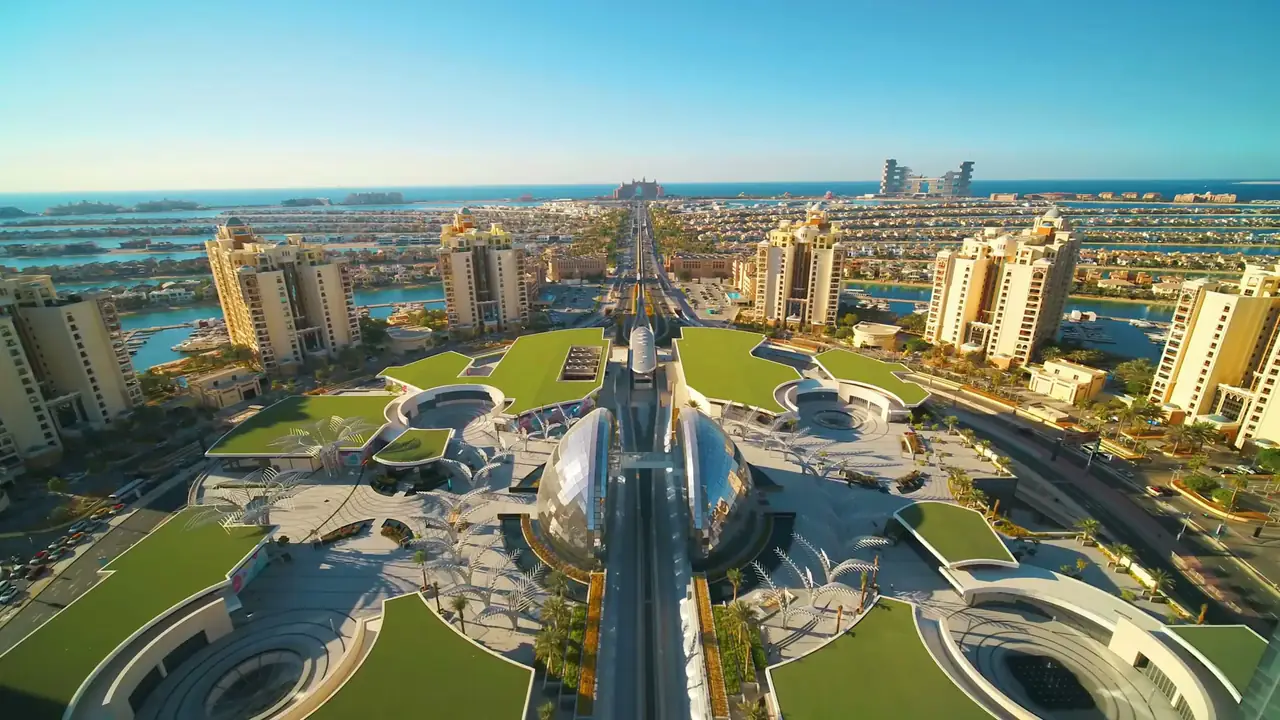
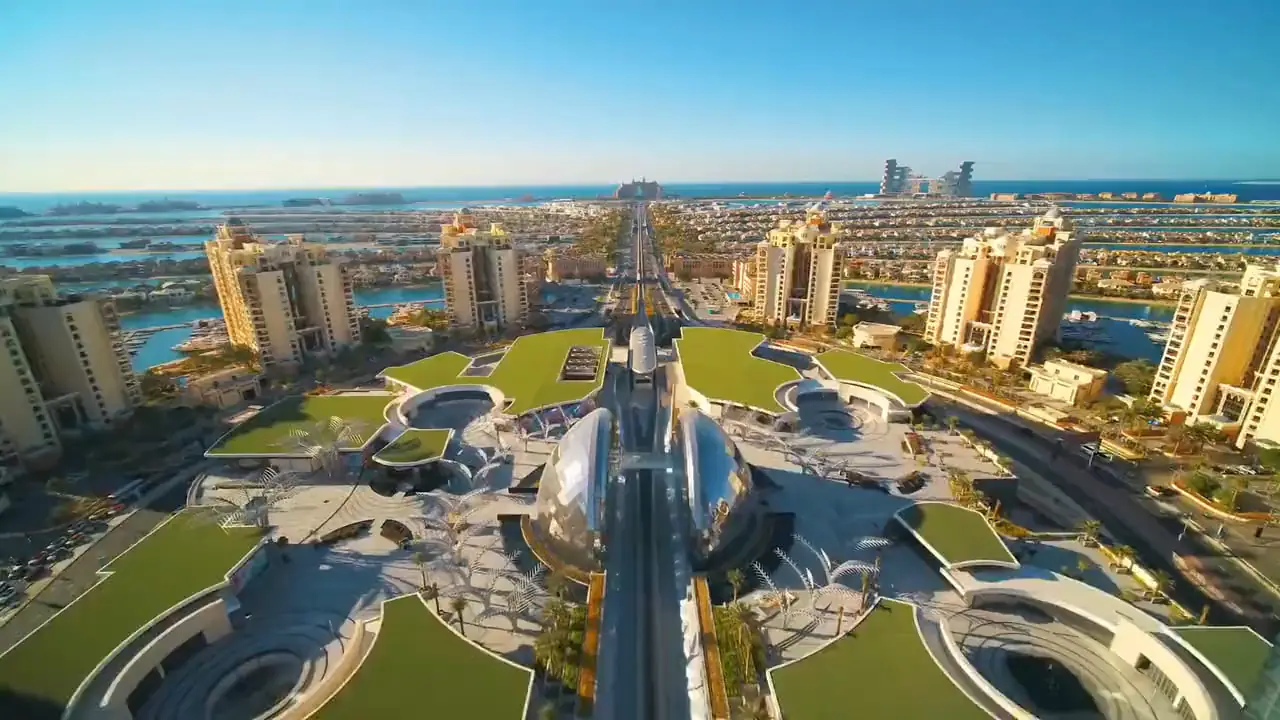
feat(hero): seamless poster-to-video start (poster is frame 0 of the rendition)
Owner request: frame 0 as the background until the video plays, with no
visible transition. The old start differed from the video's first frame by
19.6/255 on desktop (headless Chrome screenshots).

- Poster regenerated from frame 0 of each rendition: landscape from
  client-hero-1280.mp4, phone crop from client-hero-854.mp4 (enlarged to
  540 px so Chrome keeps the poster as the LCP).
- Poster and video share object-position (was center 35% vs center).
- No crossfade: the video is shown on its first painted frame
  (requestVideoFrameCallback), rewound to 0 while hidden if decoding
  started late, so the still simply starts moving.
- The video is requested only after the poster decodes (on slow links it
  was racing the poster, which left a bare teal hero).
- Renditions tagged BT.709 so browsers convert colours like the poster.
- encode-hero-videos.sh cuts both posters and runs images:optimize.

Poster vs frame 0: 1.4/255 desktop, 2.0 phone, 3.1 tablet; first visible
frame t=0.000 in 5/5 runs; phone 4G LCP 1.8-2.5 s (was 2.7 s).

diff --git a/web/src/components/home/hero-video-backdrop.tsx b/web/src/components/home/hero-video-backdrop.tsx
@@ -5,10 +5,15 @@ import { preload } from 'react-dom'
 import { ResponsiveImg, getPortraitImage, getResponsiveImage } from '@/components/ui/responsive-img'
 
 /**
- * Official client hero reel provided by the client (1080p aerial footage of Dubai & Palm Jumeirah).
- * Re-encoded into two lightweight web renditions (+faststart, silent ambient loop):
- *   /videos/hero/client-hero-1280.mp4 (desktop / large screens, ~19MB)
- *   /videos/hero/client-hero-854.mp4  (mobile / phones, ~7.2MB)
+ * Official client hero reel (Dubai & Palm Jumeirah aerials, 74 s loop), re-encoded by
+ * scripts/encode-hero-videos.sh into two silent, faststart, BT.709-tagged renditions:
+ *   /videos/hero/client-hero-1280.mp4 (desktop, ~9 MB)
+ *   /videos/hero/client-hero-854.mp4  (phones / 3G, ~4 MB)
+ *
+ * Seamless start: the poster IS frame 0 of the rendition the device plays (landscape from the
+ * 1280 file, phone crop from the 854 file), both layers share the same object-fit/position, and
+ * the video is switched on — with no fade — only once it has presented its first frame. So the
+ * still simply starts moving.
  */
 type Rendition = '1280' | '854'
 
@@ -47,13 +52,13 @@ const getReducedMotionOnServer = () => false
 export function HeroVideoBackdrop() {
   const [videoReady, setVideoReady] = useState(false)
   const videoRef = useRef<HTMLVideoElement | null>(null)
+  const backdropRef = useRef<HTMLDivElement | null>(null)
   const reducedMotion = useSyncExternalStore(
     subscribeToReducedMotion,
     getReducedMotion,
     getReducedMotionOnServer,
   )
-  // Video stays off until the page has fully loaded and the browser is idle,
-  // so the poster (the LCP element) never competes with video bandwidth.
+  // Chosen once the poster is painted (Save-Data / 2G → no video).
   const [rendition, setRendition] = useState<Rendition | null>(null)
 
   // Hoists high-priority <link rel="preload"> tags for the poster into <head>,
@@ -77,29 +82,86 @@ export function HeroVideoBackdrop() {
     })
   }
 
+  // The video starts only after the poster has loaded and decoded: otherwise, on slow links,
+  // the video download competes with the poster and the hero shows the bare teal background
+  // until the video pops in. Order is always: poster (frame 0) → video (frame 0 → motion).
   useEffect(() => {
     if (reducedMotion) return
-    const id = requestAnimationFrame(() => setRendition(pickRendition()))
-    return () => cancelAnimationFrame(id)
+    let cancelled = false
+    let rafId: number | undefined
+    const start = () => {
+      if (cancelled) return
+      rafId = requestAnimationFrame(() => setRendition(pickRendition()))
+    }
+    const img = backdropRef.current?.querySelector<HTMLImageElement>('img.ll-hero-poster')
+    if (img) img.decode().then(start, start)
+    else start()
+    return () => {
+      cancelled = true
+      if (rafId !== undefined) cancelAnimationFrame(rafId)
+    }
   }, [reducedMotion])
 
   useEffect(() => {
     if (reducedMotion || !rendition) return
     const v = videoRef.current
-    if (v) {
+    if (!v) return
+    let cancelled = false
+    let frameHandle: number | undefined
+    const play = () => {
       const p = v.play()
       if (p) {
         p.catch(() => {
-          // Poster fallback remains visible if autoplay is restricted
+          // Autoplay blocked: the paused frame 0 / poster (the same picture) simply stays.
         })
       }
+    }
+    const reveal = () => {
+      if (cancelled) return
+      // Straight on the element, in the same frame callback: waiting for a React render
+      // would let the video run a frame or two past the poster before it shows.
+      v.classList.add('is-visible')
+      setVideoReady(true)
+    }
+    // Shown only once the browser has painted a frame — never on `canplay`, which fires before
+    // anything is drawn. If decoding started late and the first painted frame is already past
+    // frame 0, rewind (still hidden) so the first visible frame is exactly the poster.
+    const onFirstFrame = (mediaTime: number) => {
+      if (cancelled) return
+      if (mediaTime < 0.05) return reveal()
+      v.pause()
+      v.addEventListener(
+        'seeked',
+        () => {
+          reveal()
+          requestAnimationFrame(() => {
+            if (!cancelled) play()
+          })
+        },
+        { once: true },
+      )
+      v.currentTime = 0
+    }
+
+    // requestVideoFrameCallback: Chrome/Edge, Safari 15.4+, Firefox 132+.
+    if (typeof v.requestVideoFrameCallback === 'function') {
+      frameHandle = v.requestVideoFrameCallback((_now, meta) => onFirstFrame(meta.mediaTime))
+    } else {
+      v.addEventListener('playing', () => onFirstFrame(v.currentTime), { once: true })
+    }
+
+    // play() (not only the autoPlay attribute) so iOS starts fetching data.
+    play()
+    return () => {
+      cancelled = true
+      if (frameHandle !== undefined) v.cancelVideoFrameCallback(frameHandle)
     }
   }, [reducedMotion, rendition])
 
   const videoSrc = rendition ? `/videos/hero/client-hero-${rendition}.mp4` : null
 
   return (
-    <div className="ll-hero-backdrop" aria-hidden="true">
+    <div ref={backdropRef} className="ll-hero-backdrop" aria-hidden="true">
       {/* Persistent poster: the LCP element. Responsive WebP, fetched first. */}
       <picture>
         {portrait && <source media={PORTRAIT_MEDIA} srcSet={portrait.src} />}
@@ -122,7 +184,6 @@ export function HeroVideoBackdrop() {
           loop
           playsInline
           preload="auto"
-          onCanPlay={() => setVideoReady(true)}
           className={`ll-hero-video ${videoReady ? 'is-visible' : ''}`}
         />
       )}

diff --git a/web/src/app/globals.css b/web/src/app/globals.css
@@ -562,7 +562,8 @@ button, input, select, textarea {
   width: 100%;
   height: 100%;
   object-fit: cover;
-  object-position: center 35%;
+  /* Must match .ll-hero-video: the poster is the video's first frame. */
+  object-position: center center;
   display: block;
 }
 
@@ -573,8 +574,9 @@ button, input, select, textarea {
   height: 100%;
   object-fit: cover;
   object-position: center center;
+  /* Hidden until its first frame is painted, then shown instantly: no crossfade, because a
+     fade over a moving shot reads as a transition. The poster underneath is the same frame. */
   opacity: 0;
-  transition: opacity 1.15s ease;
   pointer-events: none;
 }
 

diff --git a/STATUS.md b/STATUS.md
@@ -8,7 +8,7 @@
 
 ## Last updated
 
-2026-11-16 — by: Arena agent (review fixes on the client hero reel: `hero-dubai-skyline.jpg` restored after the poster had overwritten it, hero renditions re-encoded ~50% lighter, homepage DB debug line removed so `/` is static, media test added)
+2026-11-16 — by: Arena agent (review fixes on the client hero reel: skyline photo restored, renditions ~50% lighter, homepage static; then a seamless poster → video start, with the poster cut from frame 0 of each rendition)
 
 ### Previous update
 
@@ -109,3 +109,4 @@
 | 2026-11-16 | Arena agent | Client feedback (D-23): property card CTA `View Property Brief` → `Know More` (+ sr-only property name); hero search reduced to `Buy` / `Rent` (Commercial tab removed, commercial listings included in Buy/Rent communities); Executive Leadership removal already done (D-22); verify.sh +3 checks | `tsc` PASS, lint 0 errors (3 warnings), tests 5/5, `next build` PASS, `verify.sh` 51/52 (only the known `file` utility check fails); checked at 1440 and 390 |
 | 2026-11-16 | Arena agent | cPanel staging prep: host offers Node 22.23.5 (compat item 1 PASS). Added `web/scripts/deployment/package-cpanel.sh`, which builds the standalone bundle in a CloudLinux-safe layout (`leapliving-app/app/server.js`), rebuilds better-sqlite3 for glibc 2.28, creates the initial DB, smoke-tests and zips. Added `STORAGE_DIR` so uploads live outside the release. verify.sh now checks the hero renditions actually served (not the unused masters). Guide: `docs/deployment/cpanel-staging.md` | `tsc` PASS, lint 0 errors (3 warnings), tests 5/5, package script run twice PASS, extracted bundle `verify.sh` 57/58 (only the known `file` utility check fails) |
 | 2026-11-16 | Arena agent | Review fixes on the client hero reel. (1) The poster commit had overwritten `hero-dubai-skyline.jpg` (and the unused duplicate `hero-dubai-beach-daylight.jpg`) with the reel's first frame, so the *Burj District Private Collection* project and four property galleries showed Palm Jumeirah; the original skyline photo and its WebP variants are restored, the orphan duplicate and the skyline portrait crop removed. (2) `client-hero-1280/854.mp4` re-encoded from the 1080p master at 24 fps, CRF 31/33, preset slow: 19.3 → 9.1 MB and 7.5 → 3.8 MB, same 74 s, first frame still matches the poster. `encode-hero-videos.sh` no longer hard-codes a local ffmpeg path. (3) Homepage hidden `Platform Ready (DB assets)` line and `force-dynamic` removed: `/` is prerendered and no longer returns 500 when the database is unavailable; verify.sh checks the marker is gone. (4) `src/data/media-assets.test.ts`: fails on byte-identical photos, missing manifest variants, or missing catalogue images. DESIGN_SYSTEM hero-video note rewritten | `tsc` PASS, lint 0 errors (3 warnings), tests 8/8, `next build` PASS (`/` static), verify.sh 50/51 (only the known `file` utility check fails), `/` returns 200 with the database directory removed; mobile 4G LCP 2.7 s (unchanged); project page and hero checked in headless Chrome |
+| 2026-11-16 | Arena agent | Hero: seamless poster → video (owner request: "first frame as the background until the video plays, with no feeling of a transition"). Measured in headless Chrome, the old start differed from the video's first frame by 19.6/255 on desktop. Causes: the poster sat at `object-position: center 35%` against the video's `center`, a 1.15 s crossfade ran over a moving shot, the video was revealed on `canplay` and so showed already advanced (t≈0.1–0.4 s), and the renditions carried no colour tags. Changes: (1) poster regenerated from frame 0 of each rendition (1280 landscape, phone crop from the 854 file, enlarged to 540 so it stays the LCP); (2) same object-position on both layers; (3) video revealed with no fade on its first painted frame, rewound to 0 while hidden if needed; (4) video requested only after the poster decodes, because on slow links it had been racing the poster; (5) renditions tagged BT.709; (6) `encode-hero-videos.sh` now cuts the posters and runs `images:optimize` | Poster vs video frame 0: 1.4/255 desktop (1366/1440/1920), 2.0 phone, 3.1 tablet. First visible video frame t=0.000 s in 5 of 5 runs (desktop and phone, throttled and not). Phone 4G LCP stays the poster, 1.8–2.5 s (was 2.7 s). `tsc` PASS, lint 0 errors (3 warnings), tests 8/8, `next build` PASS, verify.sh 50/51 (only the known `file` utility check fails) |

diff --git a/DESIGN_SYSTEM.md b/DESIGN_SYSTEM.md
@@ -195,8 +195,8 @@ Measured with Lighthouse 12 on `/` (`next start`). Mobile uses default throttlin
 ¹ Speed Index errored in that run. ² Includes the hero video, which now loads only after the page has finished loading.
 
 - **Photos:** never reference `/images/*.jpg|png` from a raw `<img>`. Use `<ResponsiveImg src sizes>` (`web/src/components/ui/responsive-img.tsx`). It serves pre-generated WebP variants (640/768/960/1280/1920) from `public/images/opt/` via `srcSet`, and is lazy by default (`priority` sets eager loading and `fetchPriority="high"` for above-the-fold images). After adding or replacing a photo, run `npm run images:optimize` and commit `public/images/opt/` and `src/data/image-manifest.json`. Sharp runs at build time on a dev machine, not on the host.
-- **Hero poster (the LCP element):** preloaded with high priority. Phones in portrait get an art-directed 540×900 centre crop (`CROPS` in `scripts/optimize-images.mjs`), which is sharper and lighter than the landscape frame.
-- **Hero video:** the client's Dubai reel (74 s, looped) plays from `public/videos/hero/client-hero-1280.mp4` (desktop) and `client-hero-854.mp4` (phones and 3G). Both are silent, 24 fps, faststart, and re-encoded by `scripts/encode-hero-videos.sh`; the 1080p master is kept outside the repository. The video element mounts on the first animation frame after hydration; Save-Data or 2G get no video, and reduced-motion gets the poster only. The poster `client-video-frame-0.jpg` is the reel's first frame, so the switch from poster to video is invisible. Never overwrite another photo with the poster: `hero-dubai-skyline.jpg` is used by project and property galleries (a test now fails on byte-identical photos).
+- **Hero poster (the LCP element):** preloaded with high priority. It is frame 0 of the hero reel, cut from the same rendition the device plays: `client-video-frame-0.jpg` is frame 0 of `client-hero-1280.mp4` (landscape, max 1280 w), and phones in portrait get a 540×900 centre crop of frame 0 of `client-hero-854.mp4` (`CROPS` in `scripts/optimize-images.mjs`, source `scripts/assets/client-video-frame-0-854.jpg`). That crop is enlarged from 288 px on purpose, so Chrome keeps the poster as the LCP instead of the video. `scripts/encode-hero-videos.sh` regenerates both with the video.
+- **Hero video (seamless start):** the client's Dubai reel (74 s, looped) plays from `public/videos/hero/client-hero-1280.mp4` (desktop) and `client-hero-854.mp4` (≤900 px wide or 3G). Both are silent, 24 fps, faststart and tagged BT.709, and are re-encoded by `scripts/encode-hero-videos.sh`; the 1080p master is kept outside the repository. The visitor must not see a switch, so four rules apply. (1) The video is requested only after the poster has decoded. (2) Poster and video share `object-fit: cover; object-position: center center`. (3) The video stays at opacity 0 until `requestVideoFrameCallback` reports its first painted frame; if that frame is past 0.05 s, it rewinds to 0 while still hidden. (4) It is then shown instantly with no fade, so the still simply starts moving. Save-Data and 2G get no video, and reduced-motion gets the poster only. Never overwrite another photo with the poster: `hero-dubai-skyline.jpg` is used by project and property galleries, and a test fails on byte-identical photos.
 - **Developer logos** stay PNG (≈80 KB total). WebP with alpha came out larger.
 - **Deferred rendering:** homepage sections below `01` and the footer carry `ll-defer-render` (`content-visibility: auto`), so the browser skips their layout, paint and lazy images until they near the viewport. Paint containment clips overflow to the section box, so keep decorations inside the section. A full-page screenshot that does not scroll shows these sections blank; that is expected.
 - **Caching:** `next.config.ts` sends `Cache-Control: public, max-age=604800, stale-while-revalidate=86400` for `/images`, `/videos` and `/brand`. File names are not hashed, so they are not marked immutable.
